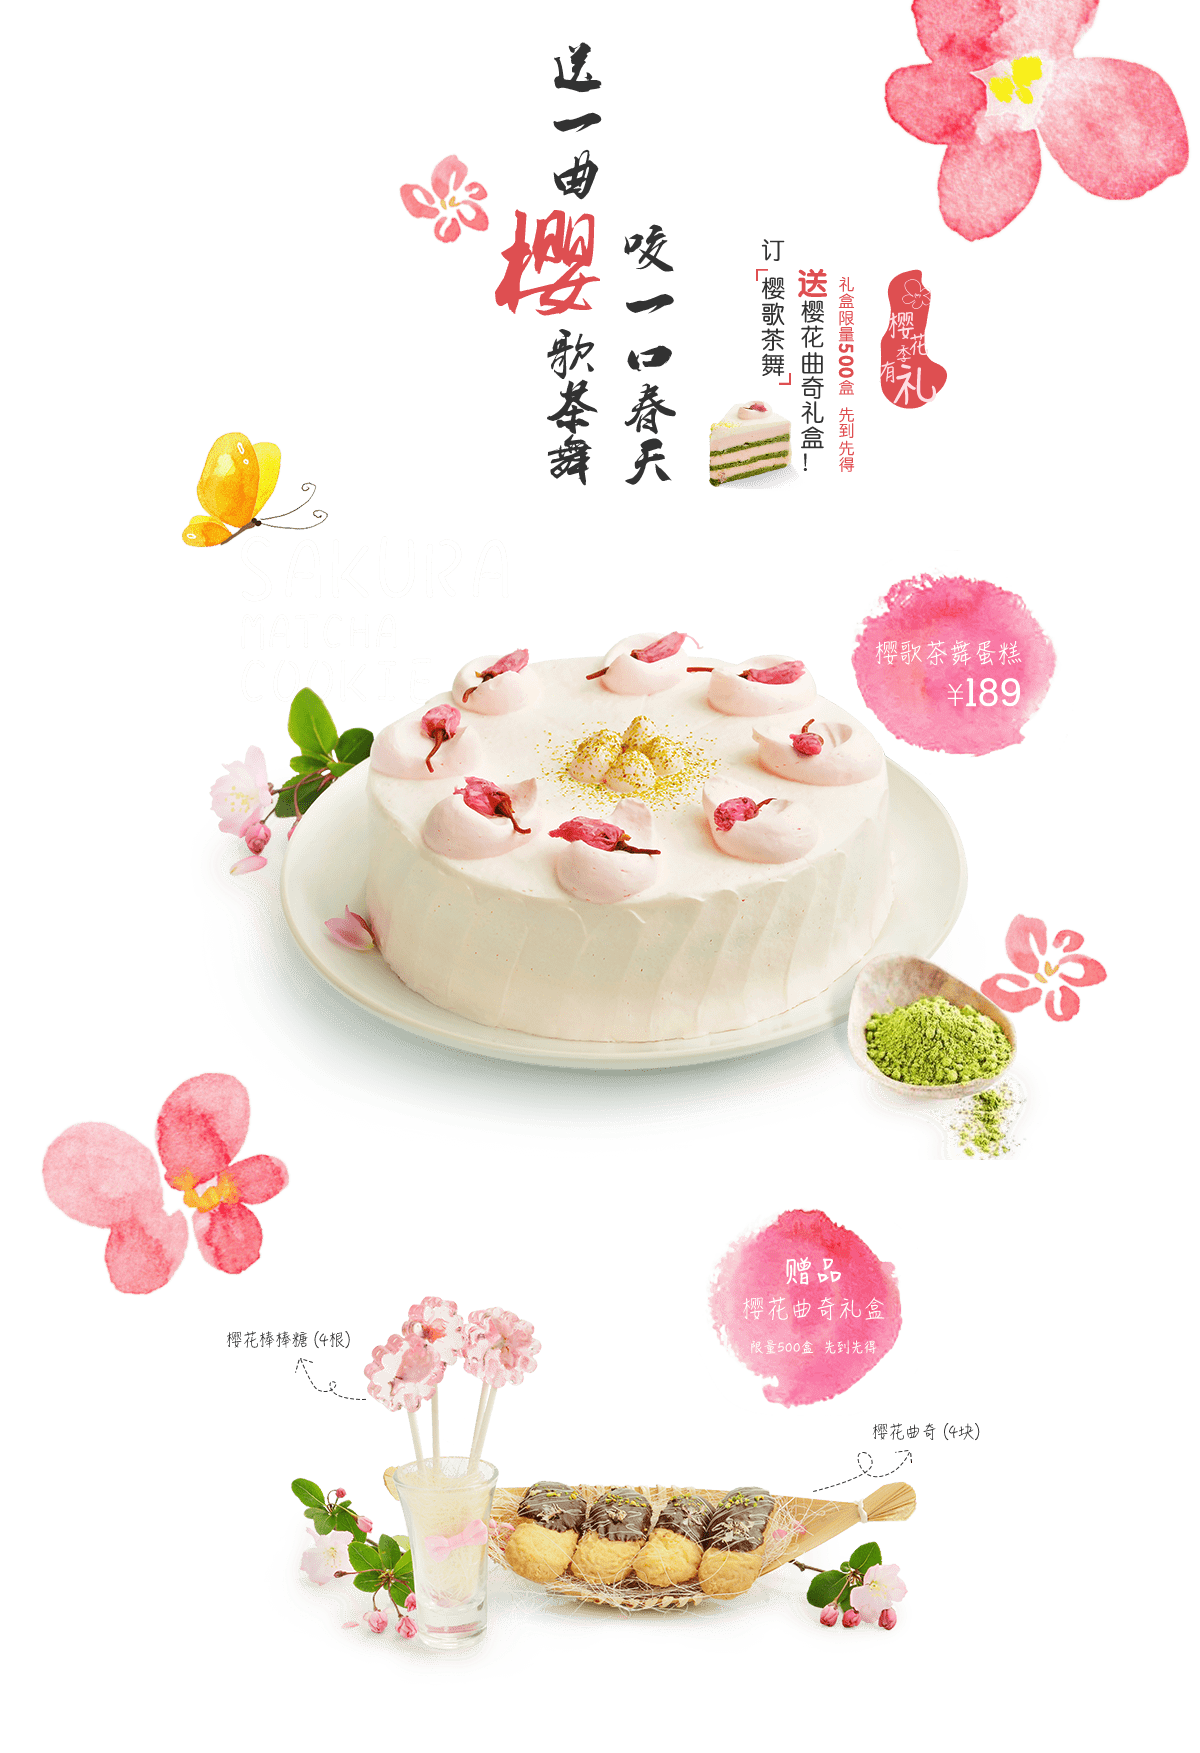
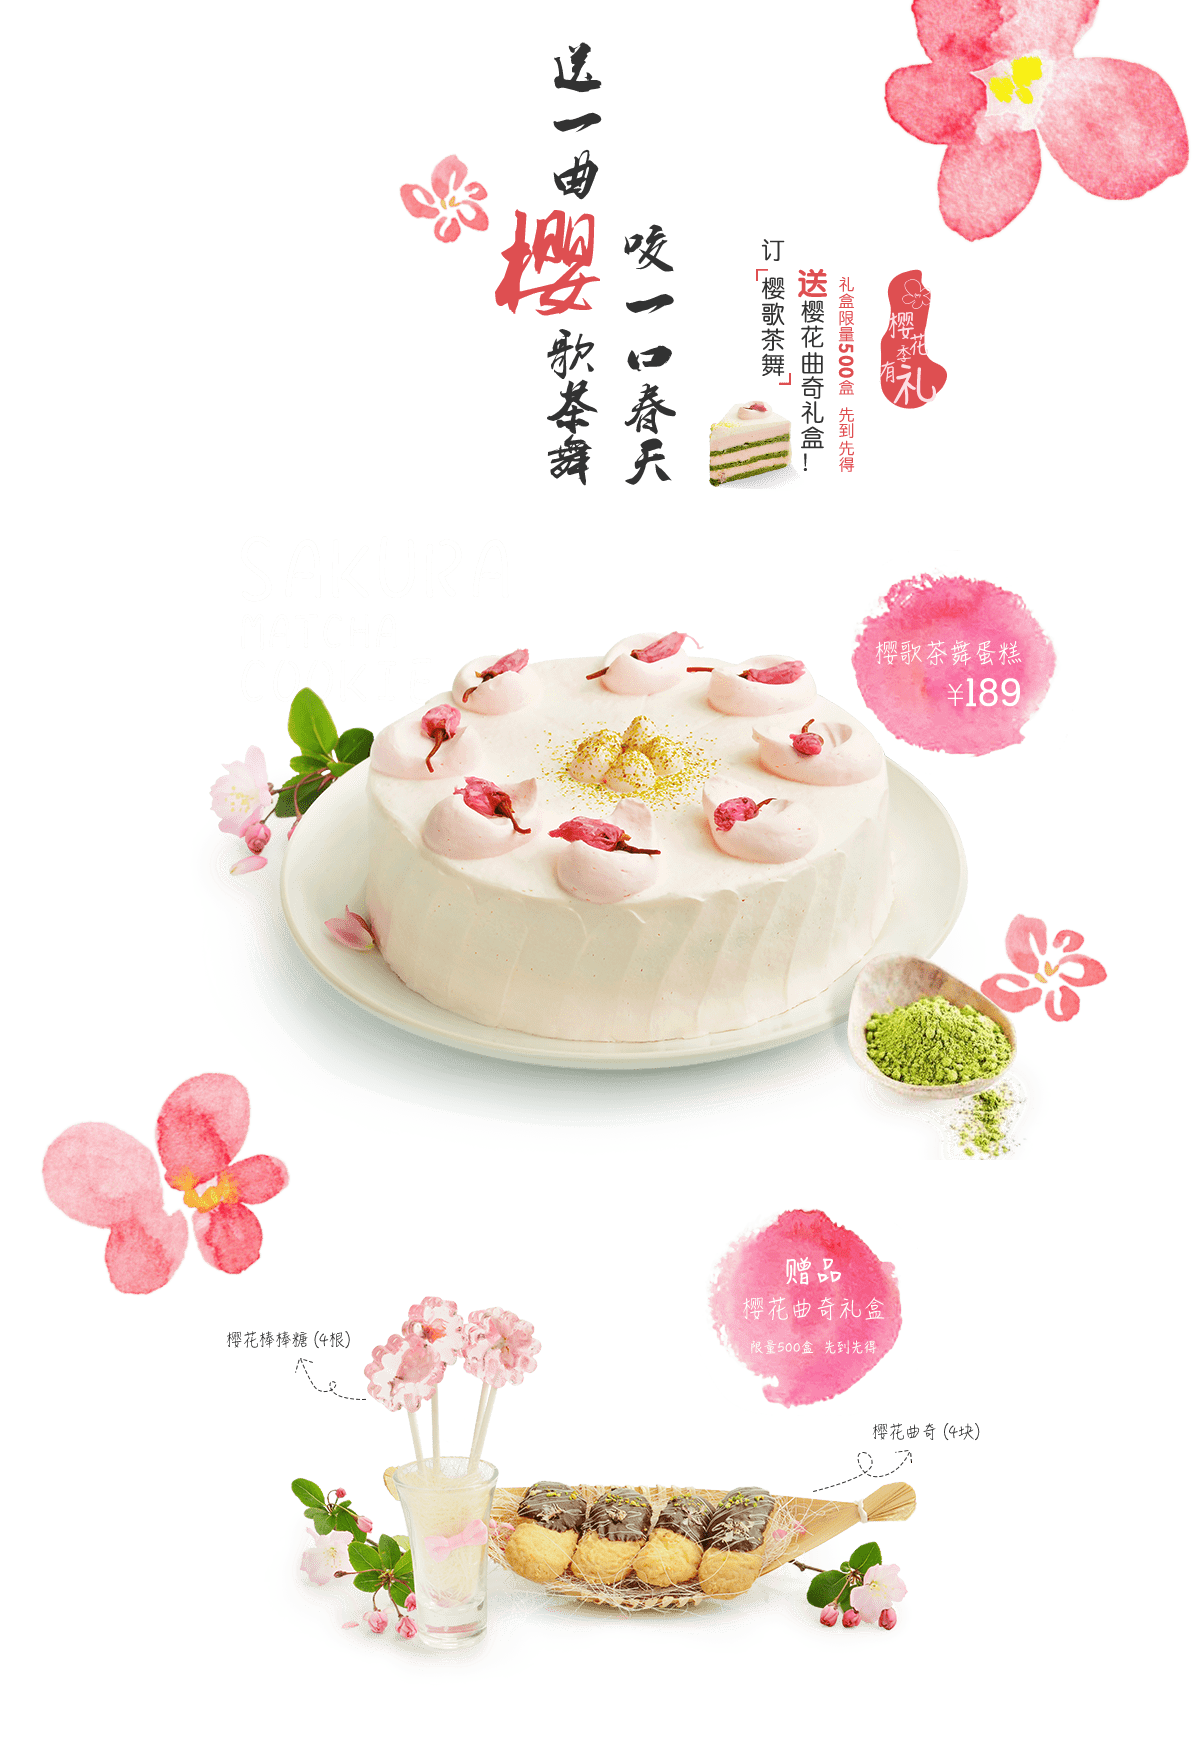
添加蝴蝶动画

diff --git a/assets/css/sakura.css b/assets/css/sakura.css
@@ -1,7 +1,8 @@
 #sakura { width: 100%; max-width: 1920px; min-width: 1200px; margin: 0 auto; overflow: hidden; }
 .sakura-container { width: 100%; background: url('../img/sakura/container_bg.jpg'); }
 .sakura-container .content { width: 1200px; margin: 0 auto; }
-.sakura-container .content .banner { width: 100%; height: 1753px; background: url('../img/sakura/container.png') no-repeat; }
+.sakura-container .content .banner { position: relative; width: 100%; height: 1753px; background: url('../img/sakura/container.png') no-repeat; }
+.sakura-container .content .banner .butterfly { position: absolute; top: 422px; left: 182px; width: 157px; height: 142px; background: url('../img/sakura/hd.gif') no-repeat; }
 .sakura-container .content .desc { position: relative; width: 100%; height: 527px; background: url('../img/sakura/desc_bg.png') no-repeat; }
 .sakura-container .content .desc .btn-buy { display: block; position: absolute; top: 0; left: 50%; width: 155px; height: 155px; margin-left: -78px; background: url('../img/sakura/btn_buy.png') no-repeat; border-radius: 50%; }
 .sakura-container .content .desc .btn-buy span { display: block; position: absolute; top: -22px; right: -75px; width: 118px; height: 128px; background: url('../img/sakura/btn_buy_flower.png') no-repeat; }

diff --git a/sakura.html b/sakura.html
@@ -228,7 +228,9 @@
             <div id="sakura">              
                 <div class="sakura-container">
                     <div class="content">
-                        <div class="banner"></div>
+                        <div class="banner">
+                            <div class="butterfly"></div>
+                        </div>
                         <div class="desc">
                             <a href="javascript:;" class="btn-buy"><span></span></a>
                         </div>

diff --git a/register-sakura.html b/register-sakura.html
@@ -228,7 +228,9 @@
             <div id="sakura">
                 <div class="sakura-container">
                     <div class="content">
-                        <div class="banner"></div>
+                        <div class="banner">
+                            <div class="butterfly"></div>
+                        </div>
                         <div class="desc">
                             <a href="javascript:;" class="btn-buy"><span></span></a>
                         </div>
